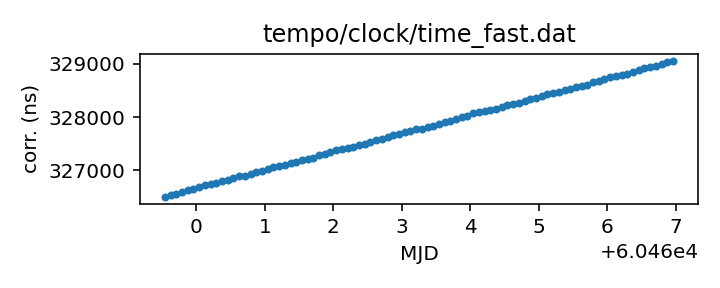
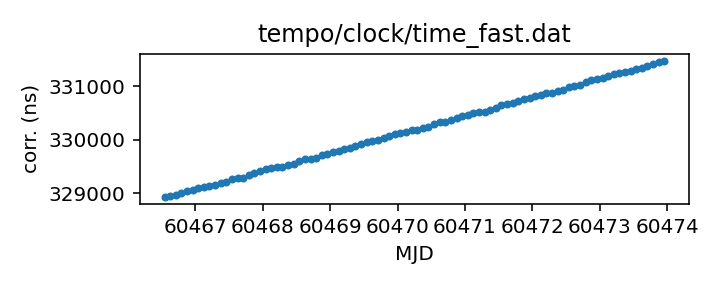
Routine gh-pages update from Github action Fri Jun 14 20:30:41 UTC 2024

diff --git a/status.md b/status.md
@@ -13,18 +13,18 @@ name of each clock file links to a page with more details.
 
 | Name | File | Corrections start | Corrections end | Last check date | Last check result 
 |:--- |:--- | --- | --- | --- |:--- 
-| [GPS to UTC](T2runtime/clock/gps2utc.clk.html) | `T2runtime/clock/gps2utc.clk` | 1993-01-01 MJD 48988.0 | 2024-04-29 MJD 60429.0 | 2024-06-13 | Unchanged 
-| [GPS to UTC (Combined Clock)](T2runtime/clock/gps2utc_cc.clk.html) | `T2runtime/clock/gps2utc_cc.clk` | 1993-01-01 MJD 48988.0 | 2024-04-29 MJD 60429.0 | 2024-06-13 | Unchanged 
-| [GPS to UTC (Corrected)](T2runtime/clock/gps2utc_c0p.clk.html) | `T2runtime/clock/gps2utc_c0p.clk` | 2010-12-29 MJD 55559.0 | 2024-04-29 MJD 60429.0 | 2024-06-13 | Unchanged 
-| [GBT](tempo/clock/time_gbt.dat.html) | `tempo/clock/time_gbt.dat` | 2000-12-31 MJD 51909.5 | 2024-05-18 MJD 60448.5 | 2024-06-13 | **Validation failed** 
+| [GPS to UTC](T2runtime/clock/gps2utc.clk.html) | `T2runtime/clock/gps2utc.clk` | 1993-01-01 MJD 48988.0 | 2024-04-29 MJD 60429.0 | 2024-06-14 | Unchanged 
+| [GPS to UTC (Combined Clock)](T2runtime/clock/gps2utc_cc.clk.html) | `T2runtime/clock/gps2utc_cc.clk` | 1993-01-01 MJD 48988.0 | 2024-04-29 MJD 60429.0 | 2024-06-14 | Unchanged 
+| [GPS to UTC (Corrected)](T2runtime/clock/gps2utc_c0p.clk.html) | `T2runtime/clock/gps2utc_c0p.clk` | 2010-12-29 MJD 55559.0 | 2024-04-29 MJD 60429.0 | 2024-06-14 | Unchanged 
+| [GBT](tempo/clock/time_gbt.dat.html) | `tempo/clock/time_gbt.dat` | 2000-12-31 MJD 51909.5 | 2024-05-18 MJD 60448.5 | 2024-06-14 | **Validation failed** 
 | [GBT (TEMPO2 converted from TEMPO)](T2runtime/clock/gbt2gps.clk.html) | `T2runtime/clock/gbt2gps.clk` | 2000-12-31 MJD 51909.5 | 2024-05-18 MJD 60448.5 | 2024-05-19 | Updated 
-| [Jodrell Bank](T2runtime/clock/jb2gps.clk.html) | `T2runtime/clock/jb2gps.clk` | 2006-10-13 MJD 54021.4 | 2023-12-04 MJD 60282.0 | 2024-06-07 | Unchanged 
-| [Jodrell Bank Roach](T2runtime/clock/jbroach2jb.clk.html) | `T2runtime/clock/jbroach2jb.clk` | 2006-10-13 MJD 54021.4 | 2018-03-20 MJD 58197.6 | 2024-06-07 | Unchanged 
-| [Jodrell Bank DFB](T2runtime/clock/jbdfb2jb.clk.html) | `T2runtime/clock/jbdfb2jb.clk` | 2006-10-13 MJD 54021.4 | 2017-05-11 MJD 57884.0 | 2024-06-07 | Unchanged 
-| [Meerkat (observatory)](T2runtime/clock/mk2utc_observatory.clk.html) | `T2runtime/clock/mk2utc_observatory.clk` | 2019-01-01 MJD 58484.0 | 2024-04-24 MJD 60425.0 | 2024-06-07 | Unchanged 
-| [Leap seconds](tempo/clock/leap.sec.html) | `tempo/clock/leap.sec` | 1972-07-01 MJD 41499.0 | 2017-01-01 MJD 57754.0 | 2024-06-13 | Unchanged 
-| [UT1 table](tempo/clock/ut1.dat.html) | `tempo/clock/ut1.dat` | 1973-01-02 MJD 41684.0 | 2025-06-21 MJD 60847.0 | 2024-06-13 | Updated 
-| [UT1 table](T2runtime/clock/ut1.dat.html) | `T2runtime/clock/ut1.dat` | 1973-01-02 MJD 41684.0 | 2025-06-21 MJD 60847.0 | 2024-06-13 | Updated 
+| [Jodrell Bank](T2runtime/clock/jb2gps.clk.html) | `T2runtime/clock/jb2gps.clk` | 2006-10-13 MJD 54021.4 | 2023-12-04 MJD 60282.0 | 2024-06-14 | Unchanged 
+| [Jodrell Bank Roach](T2runtime/clock/jbroach2jb.clk.html) | `T2runtime/clock/jbroach2jb.clk` | 2006-10-13 MJD 54021.4 | 2018-03-20 MJD 58197.6 | 2024-06-14 | Unchanged 
+| [Jodrell Bank DFB](T2runtime/clock/jbdfb2jb.clk.html) | `T2runtime/clock/jbdfb2jb.clk` | 2006-10-13 MJD 54021.4 | 2017-05-11 MJD 57884.0 | 2024-06-14 | Unchanged 
+| [Meerkat (observatory)](T2runtime/clock/mk2utc_observatory.clk.html) | `T2runtime/clock/mk2utc_observatory.clk` | 2019-01-01 MJD 58484.0 | 2024-04-24 MJD 60425.0 | 2024-06-14 | Unchanged 
+| [Leap seconds](tempo/clock/leap.sec.html) | `tempo/clock/leap.sec` | 1972-07-01 MJD 41499.0 | 2017-01-01 MJD 57754.0 | 2024-06-14 | Unchanged 
+| [UT1 table](tempo/clock/ut1.dat.html) | `tempo/clock/ut1.dat` | 1973-01-02 MJD 41684.0 | 2025-06-21 MJD 60847.0 | 2024-06-14 | Unchanged 
+| [UT1 table](T2runtime/clock/ut1.dat.html) | `T2runtime/clock/ut1.dat` | 1973-01-02 MJD 41684.0 | 2025-06-21 MJD 60847.0 | 2024-06-14 | Unchanged 
 
 
 
@@ -67,26 +67,26 @@ name of each clock file links to a page with more details.
 
 | Name | File | Corrections start | Corrections end | Last check date | Last check result 
 |:--- |:--- | --- | --- | --- |:--- 
-| [GPS to UTC (TEMPO2)](T2runtime/clock/gps2utc_tempo2.clk.html) | `T2runtime/clock/gps2utc_tempo2.clk` | 1996-03-27 MJD 50169.0 | 2022-10-27 MJD 59879.0 | 2024-06-07 | **Failed to download** 
-| [GBT (TEMPO2)](T2runtime/clock/gbt2gps_tempo2.clk.html) | `T2runtime/clock/gbt2gps_tempo2.clk` | 2000-12-31 MJD 51909.5 | 2020-02-25 MJD 58904.5 | 2024-06-07 | Unchanged 
-| [Jodrell Bank (TEMPO)](tempo/clock/time_jb.dat.html) | `tempo/clock/time_jb.dat` | 2006-10-13 MJD 54021.4 | 2019-05-13 MJD 58616.2 | 2024-06-07 | Unchanged 
-| [VLA](tempo/clock/time_vla.dat.html) | `tempo/clock/time_vla.dat` | 1990-10-27 MJD 48191.2 | 2021-03-07 MJD 59280.5 | 2024-06-07 | Unchanged 
-| [VLA (TEMPO2)](T2runtime/clock/vla2gps.clk.html) | `T2runtime/clock/vla2gps.clk` | 2015-02-01 MJD 57054.6 | 2021-03-07 MJD 59280.5 | 2024-06-07 | Unchanged 
-| [VLA to NIST](T2runtime/clock/vla2nist.clk.html) | `T2runtime/clock/vla2nist.clk` | 1990-10-27 MJD 48191.2 | 1993-11-13 MJD 49304.0 | 2024-06-07 | Unchanged 
-| [FAST](tempo/clock/time_fast.dat.html) | `tempo/clock/time_fast.dat` | 2017-07-27 MJD 57961.0 | 2024-06-05 MJD 60467.0 | 2024-06-07 | Updated 
-| [WSRT](T2runtime/clock/wsrt2gps.clk.html) | `T2runtime/clock/wsrt2gps.clk` | 1999-01-01 MJD 51179.5 | 2015-06-29 MJD 57202.1 | 2024-06-07 | Unchanged 
-| [WSRT (TEMPO)](tempo/clock/time_wsrt.dat.html) | `tempo/clock/time_wsrt.dat` | 1987-07-24 MJD 47000.0 | 2007-12-24 MJD 54458.0 | 2024-06-07 | **Validation failed** 
-| [Parkes](T2runtime/clock/pks2gps.clk.html) | `T2runtime/clock/pks2gps.clk` | 1858-11-17 MJD 0.0 | 2024-04-30 MJD 60430.1 | 2024-06-07 | Unchanged 
-| [Parkes (TEMPO)](tempo/clock/time_pks.dat.html) | `tempo/clock/time_pks.dat` | 1979-05-07 MJD 44000.0 | 2011-07-03 MJD 55745.8 | 2024-06-07 | **Validation failed** 
-| [SRT](T2runtime/clock/srt2gps.clk.html) | `T2runtime/clock/srt2gps.clk` | 2013-03-20 MJD 56371.0 | 2019-12-11 MJD 58828.0 | 2024-06-07 | Unchanged 
-| [Effelsberg](T2runtime/clock/eff2gps.clk.html) | `T2runtime/clock/eff2gps.clk` | 1993-11-29 MJD 49320.0 | 2015-06-22 MJD 57195.5 | 2024-06-07 | Unchanged 
-| [Effelsberg Asterix/PSRix](T2runtime/clock/effix2gps.clk.html) | `T2runtime/clock/effix2gps.clk` | 2011-01-01 MJD 55562.5 | 2021-03-21 MJD 59294.5 | 2024-06-07 | Unchanged 
-| [LEAP](T2runtime/clock/leap2effix.clk.html) | `T2runtime/clock/leap2effix.clk` | 2012-10-29 MJD 56230.0 | 2014-03-04 MJD 56720.0 | 2024-06-07 | Unchanged 
-| [NUPPI](tempo/clock/time_nuppi.dat.html) | `tempo/clock/time_nuppi.dat` | 2005-03-07 MJD 53436.0 | 2015-11-08 MJD 57334.6 | 2024-06-07 | Unchanged 
-| [Meerkat (TEMPO2)](T2runtime/clock/mk2utc.clk.html) | `T2runtime/clock/mk2utc.clk` | 2019-01-01 MJD 58484.0 | 2023-10-18 MJD 60235.9 | 2024-06-07 | Unchanged 
-| [MOST](T2runtime/clock/mo2gps.clk.html) | `T2runtime/clock/mo2gps.clk` | 2003-12-27 MJD 53000.0 | 2018-09-06 MJD 58367.0 | 2024-06-07 | Unchanged 
-| [Nancay to obspm](T2runtime/clock/ncyobs2obspm.clk.html) | `T2runtime/clock/ncyobs2obspm.clk` | 1988-05-18 MJD 47299.6 | 2023-10-27 MJD 60244.0 | 2024-06-07 | Unchanged 
-| [obspm](T2runtime/clock/obspm2gps.clk.html) | `T2runtime/clock/obspm2gps.clk` | 2003-12-01 MJD 52974.0 | 2023-10-27 MJD 60244.0 | 2024-06-07 | Unchanged 
+| [GPS to UTC (TEMPO2)](T2runtime/clock/gps2utc_tempo2.clk.html) | `T2runtime/clock/gps2utc_tempo2.clk` | 1996-03-27 MJD 50169.0 | 2022-10-27 MJD 59879.0 | 2024-06-14 | **Failed to download** 
+| [GBT (TEMPO2)](T2runtime/clock/gbt2gps_tempo2.clk.html) | `T2runtime/clock/gbt2gps_tempo2.clk` | 2000-12-31 MJD 51909.5 | 2020-02-25 MJD 58904.5 | 2024-06-14 | Unchanged 
+| [Jodrell Bank (TEMPO)](tempo/clock/time_jb.dat.html) | `tempo/clock/time_jb.dat` | 2006-10-13 MJD 54021.4 | 2019-05-13 MJD 58616.2 | 2024-06-14 | Unchanged 
+| [VLA](tempo/clock/time_vla.dat.html) | `tempo/clock/time_vla.dat` | 1990-10-27 MJD 48191.2 | 2021-03-07 MJD 59280.5 | 2024-06-14 | Unchanged 
+| [VLA (TEMPO2)](T2runtime/clock/vla2gps.clk.html) | `T2runtime/clock/vla2gps.clk` | 2015-02-01 MJD 57054.6 | 2021-03-07 MJD 59280.5 | 2024-06-14 | Unchanged 
+| [VLA to NIST](T2runtime/clock/vla2nist.clk.html) | `T2runtime/clock/vla2nist.clk` | 1990-10-27 MJD 48191.2 | 1993-11-13 MJD 49304.0 | 2024-06-14 | Unchanged 
+| [FAST](tempo/clock/time_fast.dat.html) | `tempo/clock/time_fast.dat` | 2017-07-27 MJD 57961.0 | 2024-06-12 MJD 60474.0 | 2024-06-14 | Updated 
+| [WSRT](T2runtime/clock/wsrt2gps.clk.html) | `T2runtime/clock/wsrt2gps.clk` | 1999-01-01 MJD 51179.5 | 2015-06-29 MJD 57202.1 | 2024-06-14 | Unchanged 
+| [WSRT (TEMPO)](tempo/clock/time_wsrt.dat.html) | `tempo/clock/time_wsrt.dat` | 1987-07-24 MJD 47000.0 | 2007-12-24 MJD 54458.0 | 2024-06-14 | **Validation failed** 
+| [Parkes](T2runtime/clock/pks2gps.clk.html) | `T2runtime/clock/pks2gps.clk` | 1858-11-17 MJD 0.0 | 2024-04-30 MJD 60430.1 | 2024-06-14 | Unchanged 
+| [Parkes (TEMPO)](tempo/clock/time_pks.dat.html) | `tempo/clock/time_pks.dat` | 1979-05-07 MJD 44000.0 | 2011-07-03 MJD 55745.8 | 2024-06-14 | **Validation failed** 
+| [SRT](T2runtime/clock/srt2gps.clk.html) | `T2runtime/clock/srt2gps.clk` | 2013-03-20 MJD 56371.0 | 2019-12-11 MJD 58828.0 | 2024-06-14 | Unchanged 
+| [Effelsberg](T2runtime/clock/eff2gps.clk.html) | `T2runtime/clock/eff2gps.clk` | 1993-11-29 MJD 49320.0 | 2015-06-22 MJD 57195.5 | 2024-06-14 | Unchanged 
+| [Effelsberg Asterix/PSRix](T2runtime/clock/effix2gps.clk.html) | `T2runtime/clock/effix2gps.clk` | 2011-01-01 MJD 55562.5 | 2021-03-21 MJD 59294.5 | 2024-06-14 | Unchanged 
+| [LEAP](T2runtime/clock/leap2effix.clk.html) | `T2runtime/clock/leap2effix.clk` | 2012-10-29 MJD 56230.0 | 2014-03-04 MJD 56720.0 | 2024-06-14 | Unchanged 
+| [NUPPI](tempo/clock/time_nuppi.dat.html) | `tempo/clock/time_nuppi.dat` | 2005-03-07 MJD 53436.0 | 2015-11-08 MJD 57334.6 | 2024-06-14 | Unchanged 
+| [Meerkat (TEMPO2)](T2runtime/clock/mk2utc.clk.html) | `T2runtime/clock/mk2utc.clk` | 2019-01-01 MJD 58484.0 | 2023-10-18 MJD 60235.9 | 2024-06-14 | Unchanged 
+| [MOST](T2runtime/clock/mo2gps.clk.html) | `T2runtime/clock/mo2gps.clk` | 2003-12-27 MJD 53000.0 | 2018-09-06 MJD 58367.0 | 2024-06-14 | Unchanged 
+| [Nancay to obspm](T2runtime/clock/ncyobs2obspm.clk.html) | `T2runtime/clock/ncyobs2obspm.clk` | 1988-05-18 MJD 47299.6 | 2023-10-27 MJD 60244.0 | 2024-06-14 | Unchanged 
+| [obspm](T2runtime/clock/obspm2gps.clk.html) | `T2runtime/clock/obspm2gps.clk` | 2003-12-01 MJD 52974.0 | 2023-10-27 MJD 60244.0 | 2024-06-14 | Unchanged 
 
 
 ### Further information:

diff --git a/tempo/clock/time_pks.dat.md b/tempo/clock/time_pks.dat.md
@@ -20,12 +20,11 @@ telescopes in the same file, distinguished only by observatory code.
 | Clock file start | 1979-05-07 MJD 44000.0 |
 | Clock file end | 2011-07-03 MJD 55745.8 |
 | Update interval (days) | 7 |
-| Last update attempt | 2024-06-07 |
+| Last update attempt | 2024-06-14 |
 | Last update result | Validation failed |
 
 Log entries from the last few update attempts:
 ```
-2024-03-21 20:29:48.248 - Validation failed: Unable to read new version of tempo/clock/time_pks.dat: Clock file /tmp/astropy-download-1983-p8p10h_t appears to be out of order: 49959.0 > 49958.0
 2024-03-28 20:29:38.584 - Validation failed: Unable to read new version of tempo/clock/time_pks.dat: Clock file /tmp/astropy-download-1896-_vjbhals appears to be out of order: 49959.0 > 49958.0
 2024-04-04 20:29:35.826 - Validation failed: Unable to read new version of tempo/clock/time_pks.dat: Clock file /tmp/astropy-download-1911-3h73zqv4 appears to be out of order: 49959.0 > 49958.0
 2024-04-11 20:29:34.676 - Validation failed: Unable to read new version of tempo/clock/time_pks.dat: Clock file /tmp/astropy-download-1801-4xgnkiau appears to be out of order: 49959.0 > 49958.0
@@ -35,6 +34,7 @@ Log entries from the last few update attempts:
 2024-05-24 20:29:37.029 - Validation failed: Unable to read new version of tempo/clock/time_pks.dat: Clock file /tmp/astropy-download-1896-lx9qc25x appears to be out of order: 49959.0 > 49958.0
 2024-05-31 20:29:34.723 - Validation failed: Unable to read new version of tempo/clock/time_pks.dat: Clock file /tmp/astropy-download-1808-9uv0anl1 appears to be out of order: 49959.0 > 49958.0
 2024-06-07 20:29:32.720 - Validation failed: Unable to read new version of tempo/clock/time_pks.dat: Clock file /tmp/astropy-download-1810-bf_kz8b_ appears to be out of order: 49959.0 > 49958.0
+2024-06-14 20:29:51.890 - Validation failed: Unable to read new version of tempo/clock/time_pks.dat: Clock file /tmp/astropy-download-1801-tisulijr appears to be out of order: 49959.0 > 49958.0
 ```
 [Full log](https://raw.githubusercontent.com/ipta/pulsar-clock-corrections/main/log/tempo/clock/time_pks.dat.log)
 

diff --git a/tempo/clock/time_wsrt.dat.md b/tempo/clock/time_wsrt.dat.md
@@ -20,12 +20,11 @@ should be the same information.
 | Clock file start | 1987-07-24 MJD 47000.0 |
 | Clock file end | 2007-12-24 MJD 54458.0 |
 | Update interval (days) | 7 |
-| Last update attempt | 2024-06-07 |
+| Last update attempt | 2024-06-14 |
 | Last update result | Validation failed |
 
 Log entries from the last few update attempts:
 ```
-2024-03-21 20:29:42.142 - Validation failed: Unable to read new version of tempo/clock/time_wsrt.dat: Clock file /tmp/astropy-download-1983-7dg1tve1 appears to be out of order: 53000.05 > 53000.0
 2024-03-28 20:29:34.065 - Validation failed: Unable to read new version of tempo/clock/time_wsrt.dat: Clock file /tmp/astropy-download-1896-xbrtefzd appears to be out of order: 53000.05 > 53000.0
 2024-04-04 20:29:30.644 - Validation failed: Unable to read new version of tempo/clock/time_wsrt.dat: Clock file /tmp/astropy-download-1911-2suothm5 appears to be out of order: 53000.05 > 53000.0
 2024-04-11 20:29:29.782 - Validation failed: Unable to read new version of tempo/clock/time_wsrt.dat: Clock file /tmp/astropy-download-1801-eyxtozmn appears to be out of order: 53000.05 > 53000.0
@@ -35,6 +34,7 @@ Log entries from the last few update attempts:
 2024-05-24 20:29:31.949 - Validation failed: Unable to read new version of tempo/clock/time_wsrt.dat: Clock file /tmp/astropy-download-1896-o2eimvbo appears to be out of order: 53000.05 > 53000.0
 2024-05-31 20:29:29.819 - Validation failed: Unable to read new version of tempo/clock/time_wsrt.dat: Clock file /tmp/astropy-download-1808-s7arrwqh appears to be out of order: 53000.05 > 53000.0
 2024-06-07 20:29:27.848 - Validation failed: Unable to read new version of tempo/clock/time_wsrt.dat: Clock file /tmp/astropy-download-1810-vr839f9d appears to be out of order: 53000.05 > 53000.0
+2024-06-14 20:29:48.546 - Validation failed: Unable to read new version of tempo/clock/time_wsrt.dat: Clock file /tmp/astropy-download-1801-gxdcwqox appears to be out of order: 53000.05 > 53000.0
 ```
 [Full log](https://raw.githubusercontent.com/ipta/pulsar-clock-corrections/main/log/tempo/clock/time_wsrt.dat.log)
 

diff --git a/tempo/clock/time_gbt.dat.md b/tempo/clock/time_gbt.dat.md
@@ -33,12 +33,11 @@ If questions arise, contact Ryan S. Lynch <rlynch@nrao.edu>.
 | Clock file start | 2000-12-31 MJD 51909.5 |
 | Clock file end | 2024-05-18 MJD 60448.5 |
 | Update interval (days) | 1 |
-| Last update attempt | 2024-06-13 |
+| Last update attempt | 2024-06-14 |
 | Last update result | Validation failed |
 
 Log entries from the last few update attempts:
 ```
-2024-06-04 20:29:33.484 - Failed to download: The read operation timed out
 2024-06-05 20:29:46.522 - Failed to download: The read operation timed out
 2024-06-06 20:31:26.581 - Validation failed: New version of tempo/clock/time_gbt.dat clock corrections differ from old version where they overlap in 11 places
 2024-06-07 20:29:24.989 - Validation failed: New version of tempo/clock/time_gbt.dat clock corrections differ from old version where they overlap in 11 places
@@ -48,6 +47,7 @@ Log entries from the last few update attempts:
 2024-06-11 20:29:28.400 - Validation failed: New version of tempo/clock/time_gbt.dat clock corrections differ from old version where they overlap in 11 places
 2024-06-12 20:30:53.174 - Validation failed: New version of tempo/clock/time_gbt.dat clock corrections differ from old version where they overlap in 11 places
 2024-06-13 20:31:19.989 - Validation failed: New version of tempo/clock/time_gbt.dat clock corrections differ from old version where they overlap in 11 places
+2024-06-14 20:29:43.715 - Validation failed: New version of tempo/clock/time_gbt.dat clock corrections differ from old version where they overlap in 11 places
 ```
 [Full log](https://raw.githubusercontent.com/ipta/pulsar-clock-corrections/main/log/tempo/clock/time_gbt.dat.log)
 

diff --git a/T2runtime/clock/gps2utc_tempo2.clk.md b/T2runtime/clock/gps2utc_tempo2.clk.md
@@ -27,12 +27,11 @@ are from the column C0').
 | Clock file start | 1996-03-27 MJD 50169.0 |
 | Clock file end | 2022-10-27 MJD 59879.0 |
 | Update interval (days) | 7 |
-| Last update attempt | 2024-06-07 |
+| Last update attempt | 2024-06-14 |
 | Last update result | Failed to download |
 
 Log entries from the last few update attempts:
 ```
-2024-03-21 20:29:14.689 - Unchanged
 2024-03-28 20:29:07.305 - Unchanged
 2024-04-04 20:29:06.650 - Unchanged
 2024-04-11 20:29:07.692 - Unchanged
@@ -42,6 +41,7 @@ Log entries from the last few update attempts:
 2024-05-24 20:29:09.014 - Failed to download: HTTP Error 404: Not Found
 2024-05-31 20:29:06.760 - Failed to download: HTTP Error 404: Not Found
 2024-06-07 20:29:04.633 - Failed to download: HTTP Error 404: Not Found
+2024-06-14 20:29:11.087 - Failed to download: HTTP Error 404: Not Found
 ```
 [Full log](https://raw.githubusercontent.com/ipta/pulsar-clock-corrections/main/log/T2runtime/clock/gps2utc_tempo2.clk.log)
 

diff --git a/tempo/clock/time_fast.dat.md b/tempo/clock/time_fast.dat.md
@@ -14,14 +14,13 @@ This file is pulled from the FAST_ClockFile repository.
 | Format | tempo |
 | Bogus last correction | False |
 | Clock file start | 2017-07-27 MJD 57961.0 |
-| Clock file end | 2024-06-05 MJD 60467.0 |
+| Clock file end | 2024-06-12 MJD 60474.0 |
 | Update interval (days) | 7 |
-| Last update attempt | 2024-06-07 |
+| Last update attempt | 2024-06-14 |
 | Last update result | Updated |
 
 Log entries from the last few update attempts:
 ```
-2024-03-21 20:29:41.522 - Updated
 2024-03-28 20:29:33.443 - Updated
 2024-04-04 20:29:30.240 - Updated
 2024-04-11 20:29:28.783 - Updated
@@ -31,6 +30,7 @@ Log entries from the last few update attempts:
 2024-05-24 20:29:31.229 - Updated
 2024-05-31 20:29:29.072 - Updated
 2024-06-07 20:29:27.480 - Updated
+2024-06-14 20:29:47.904 - Updated
 ```
 [Full log](https://raw.githubusercontent.com/ipta/pulsar-clock-corrections/main/log/tempo/clock/time_fast.dat.log)
 

diff --git a/T2runtime/clock/mk2utc_observatory.clk.md b/T2runtime/clock/mk2utc_observatory.clk.md
@@ -21,12 +21,11 @@ If questions arise, contact Ryan Shannon <rshannon@swin.edu.au>
 | Clock file start | 2019-01-01 MJD 58484.0 |
 | Clock file end | 2024-04-24 MJD 60425.0 |
 | Update interval (days) | 7 |
-| Last update attempt | 2024-06-07 |
+| Last update attempt | 2024-06-14 |
 | Last update result | Unchanged |
 
 Log entries from the last few update attempts:
 ```
-2024-03-21 20:29:53.172 - Unchanged
 2024-03-28 20:29:51.405 - Unchanged
 2024-04-04 20:29:44.899 - Unchanged
 2024-04-11 20:29:40.709 - Unchanged
@@ -36,6 +35,7 @@ Log entries from the last few update attempts:
 2024-05-24 20:29:41.581 - Unchanged
 2024-05-31 20:29:41.668 - Unchanged
 2024-06-07 20:29:36.289 - Unchanged
+2024-06-14 20:29:57.559 - Unchanged
 ```
 [Full log](https://raw.githubusercontent.com/ipta/pulsar-clock-corrections/main/log/T2runtime/clock/mk2utc_observatory.clk.log)
 

diff --git a/T2runtime/clock/gps2utc_c0p.clk.md b/T2runtime/clock/gps2utc_c0p.clk.md
@@ -30,12 +30,11 @@ about the BIPM's published corrections, contact <tai@bipm.org>.
 | Clock file start | 2010-12-29 MJD 55559.0 |
 | Clock file end | 2024-04-29 MJD 60429.0 |
 | Update interval (days) | 1 |
-| Last update attempt | 2024-06-13 |
+| Last update attempt | 2024-06-14 |
 | Last update result | Unchanged |
 
 Log entries from the last few update attempts:
 ```
-2024-06-04 20:29:23.123 - Unchanged
 2024-06-05 20:29:36.245 - Unchanged
 2024-06-06 20:31:26.091 - Unchanged
 2024-06-07 20:29:24.650 - Unchanged
@@ -45,6 +44,7 @@ Log entries from the last few update attempts:
 2024-06-11 20:29:28.083 - Unchanged
 2024-06-12 20:30:52.150 - Unchanged
 2024-06-13 20:31:19.562 - Unchanged
+2024-06-14 20:29:42.526 - Unchanged
 ```
 [Full log](https://raw.githubusercontent.com/ipta/pulsar-clock-corrections/main/log/T2runtime/clock/gps2utc_c0p.clk.log)
 

diff --git a/T2runtime/clock/gps2utc_cc.clk.md b/T2runtime/clock/gps2utc_cc.clk.md
@@ -29,12 +29,11 @@ about the BIPM's published corrections, contact <tai@bipm.org>.
 | Clock file start | 1993-01-01 MJD 48988.0 |
 | Clock file end | 2024-04-29 MJD 60429.0 |
 | Update interval (days) | 1 |
-| Last update attempt | 2024-06-13 |
+| Last update attempt | 2024-06-14 |
 | Last update result | Unchanged |
 
 Log entries from the last few update attempts:
 ```
-2024-06-04 20:29:23.114 - Unchanged
 2024-06-05 20:29:36.236 - Unchanged
 2024-06-06 20:31:26.081 - Unchanged
 2024-06-07 20:29:24.641 - Unchanged
@@ -44,6 +43,7 @@ Log entries from the last few update attempts:
 2024-06-11 20:29:28.072 - Unchanged
 2024-06-12 20:30:52.139 - Unchanged
 2024-06-13 20:31:19.551 - Unchanged
+2024-06-14 20:29:42.515 - Unchanged
 ```
 [Full log](https://raw.githubusercontent.com/ipta/pulsar-clock-corrections/main/log/T2runtime/clock/gps2utc_cc.clk.log)
 

diff --git a/T2runtime/clock/gps2utc.clk.md b/T2runtime/clock/gps2utc.clk.md
@@ -32,12 +32,11 @@ about the BIPM's published corrections, contact <tai@bipm.org>.
 | Clock file start | 1993-01-01 MJD 48988.0 |
 | Clock file end | 2024-04-29 MJD 60429.0 |
 | Update interval (days) | 1 |
-| Last update attempt | 2024-06-13 |
+| Last update attempt | 2024-06-14 |
 | Last update result | Unchanged |
 
 Log entries from the last few update attempts:
 ```
-2024-06-04 20:29:23.088 - Unchanged
 2024-06-05 20:29:36.210 - Unchanged
 2024-06-06 20:31:26.055 - Unchanged
 2024-06-07 20:29:24.616 - Unchanged
@@ -47,6 +46,7 @@ Log entries from the last few update attempts:
 2024-06-11 20:29:28.044 - Unchanged
 2024-06-12 20:30:52.110 - Unchanged
 2024-06-13 20:31:19.523 - Unchanged
+2024-06-14 20:29:42.488 - Unchanged
 ```
 [Full log](https://raw.githubusercontent.com/ipta/pulsar-clock-corrections/main/log/T2runtime/clock/gps2utc.clk.log)
 

diff --git a/T2runtime/clock/ut1.dat.md b/T2runtime/clock/ut1.dat.md
@@ -30,12 +30,11 @@ If there are any questions, contact Anne Archibald
 | File start | 1973-01-02 MJD 41684.0 |
 | File end | 2025-06-21 MJD 60847.0 |
 | Update interval (days) | 0 |
-| Last update attempt | 2024-06-13 |
-| Last update result | Updated |
+| Last update attempt | 2024-06-14 |
+| Last update result | Unchanged |
 
 Log entries from the last few update attempts:
 ```
-2024-06-04 20:29:41.483 - Unchanged
 2024-06-05 20:29:55.573 - Unchanged
 2024-06-06 20:31:34.567 - Updated
 2024-06-07 20:29:51.513 - Unchanged
@@ -45,5 +44,6 @@ Log entries from the last few update attempts:
 2024-06-11 20:29:38.065 - Unchanged
 2024-06-12 20:31:06.524 - Unchanged
 2024-06-13 20:31:28.743 - Updated
+2024-06-14 20:30:22.205 - Unchanged
 ```
 [Full log](https://raw.githubusercontent.com/ipta/pulsar-clock-corrections/main/log/T2runtime/clock/ut1.dat.log)

diff --git a/T2runtime/clock/ncyobs2obspm.clk.md b/T2runtime/clock/ncyobs2obspm.clk.md
@@ -22,12 +22,11 @@ thus here) can be expected to be somewhat up to date.
 | Clock file start | 1988-05-18 MJD 47299.6 |
 | Clock file end | 2023-10-27 MJD 60244.0 |
 | Update interval (days) | 7 |
-| Last update attempt | 2024-06-07 |
+| Last update attempt | 2024-06-14 |
 | Last update result | Unchanged |
 
 Log entries from the last few update attempts:
 ```
-2024-03-20 20:29:34.302 - Unchanged
 2024-03-27 20:29:23.306 - Unchanged
 2024-04-03 20:29:22.441 - Unchanged
 2024-04-10 20:29:34.792 - Unchanged
@@ -37,6 +36,7 @@ Log entries from the last few update attempts:
 2024-05-24 20:29:42.191 - Unchanged
 2024-05-31 20:29:42.384 - Unchanged
 2024-06-07 20:29:36.852 - Unchanged
+2024-06-14 20:29:59.398 - Unchanged
 ```
 [Full log](https://raw.githubusercontent.com/ipta/pulsar-clock-corrections/main/log/T2runtime/clock/ncyobs2obspm.clk.log)
 
